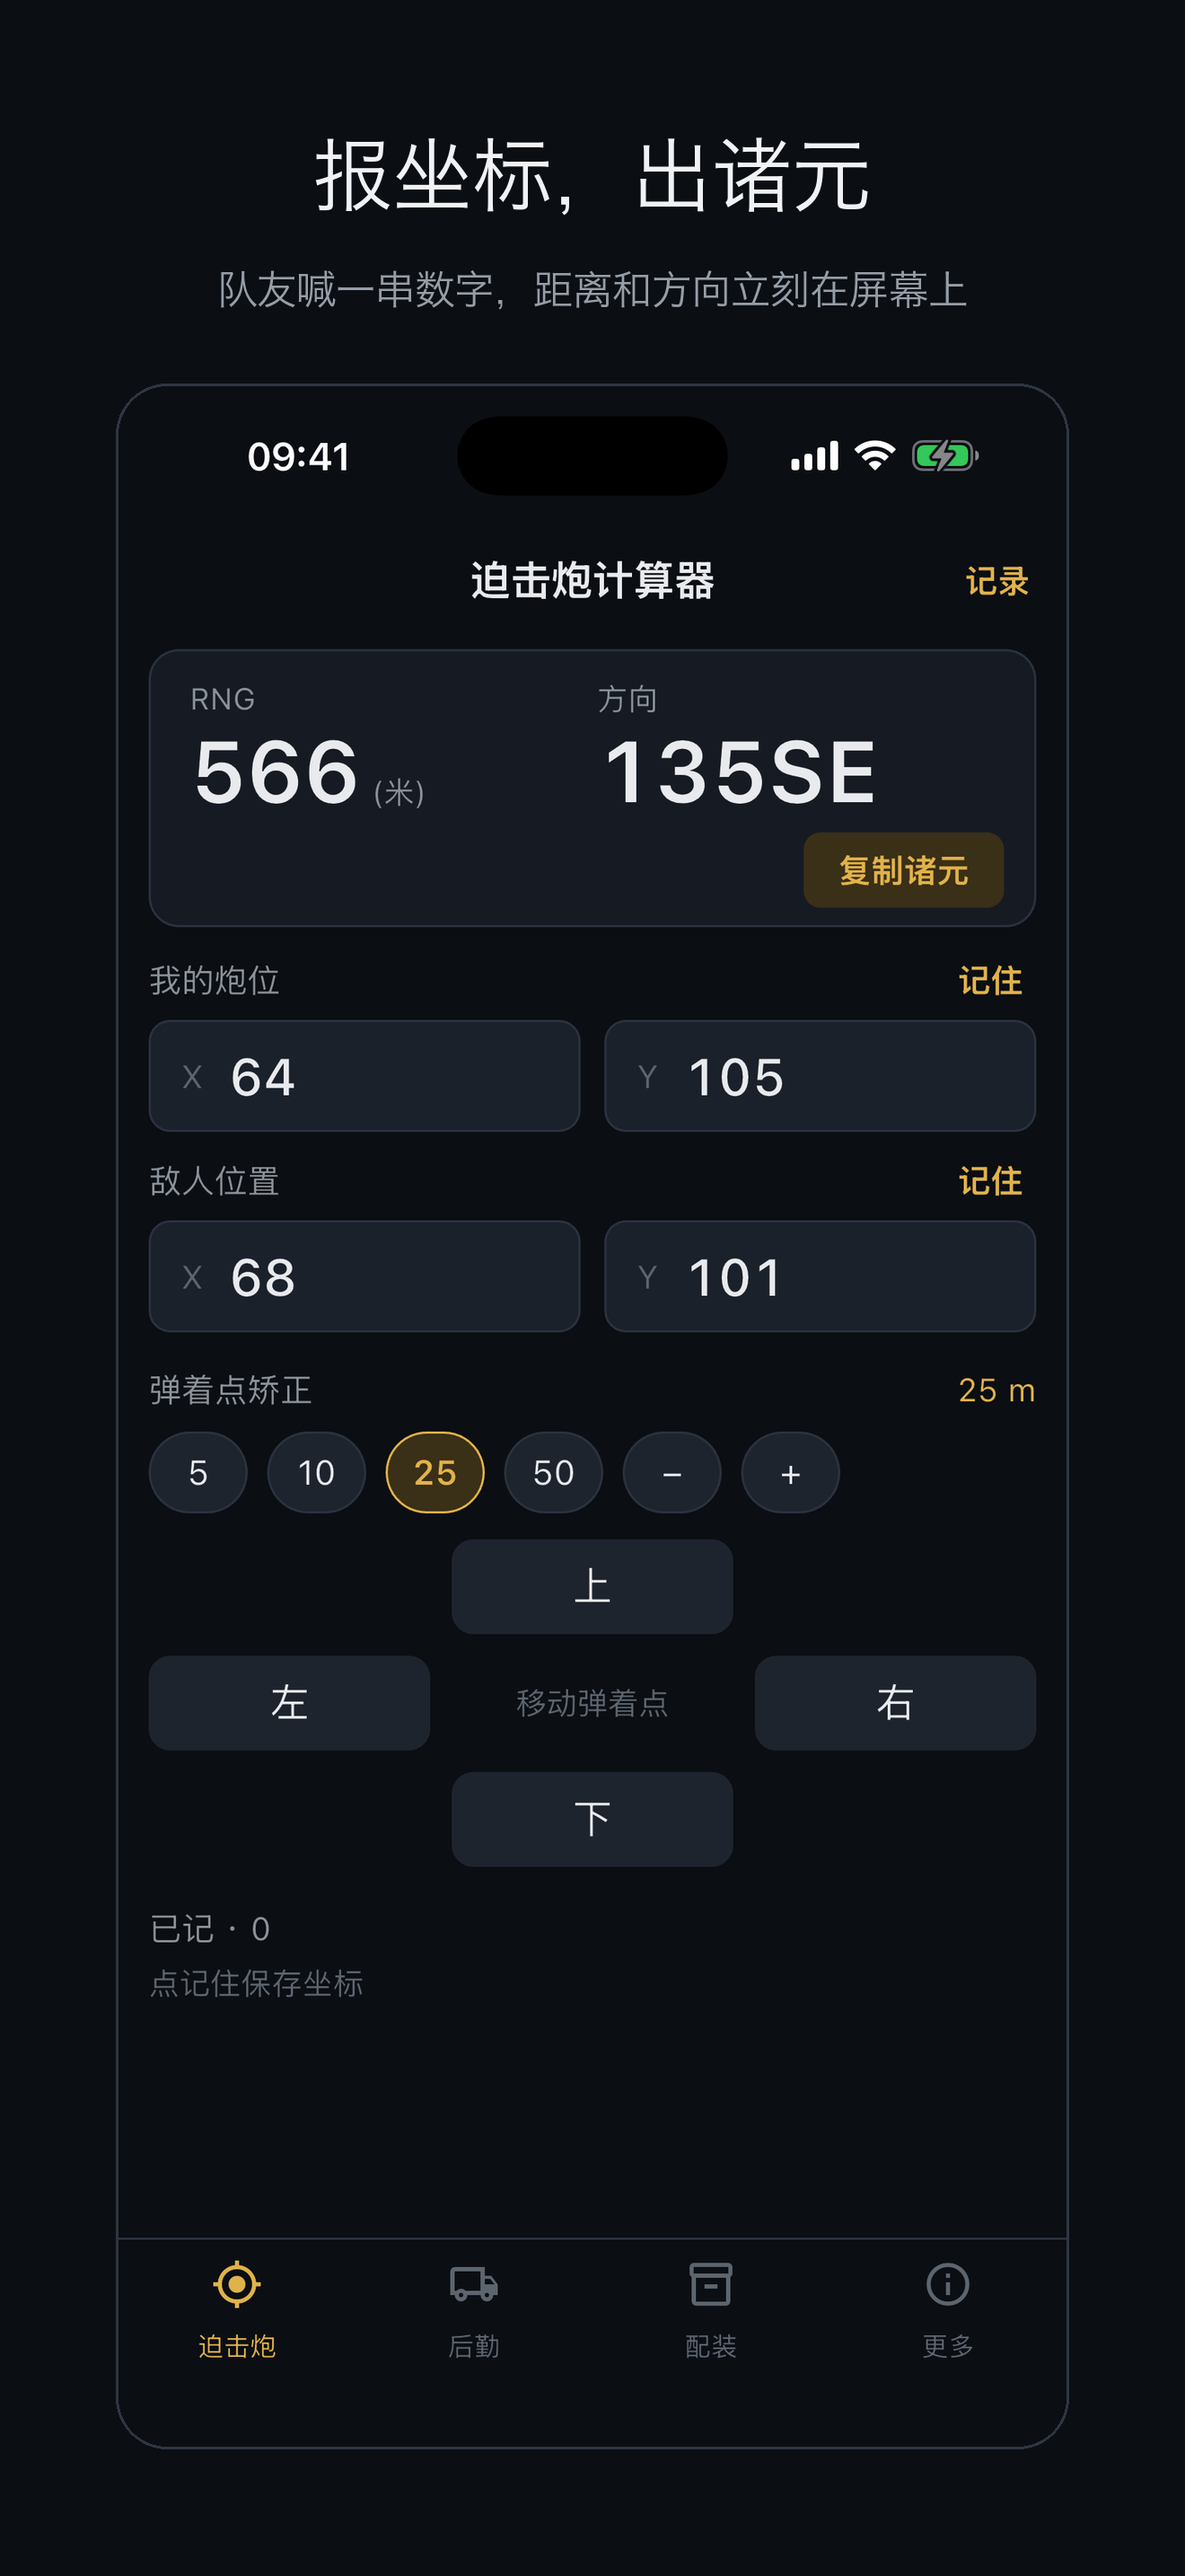
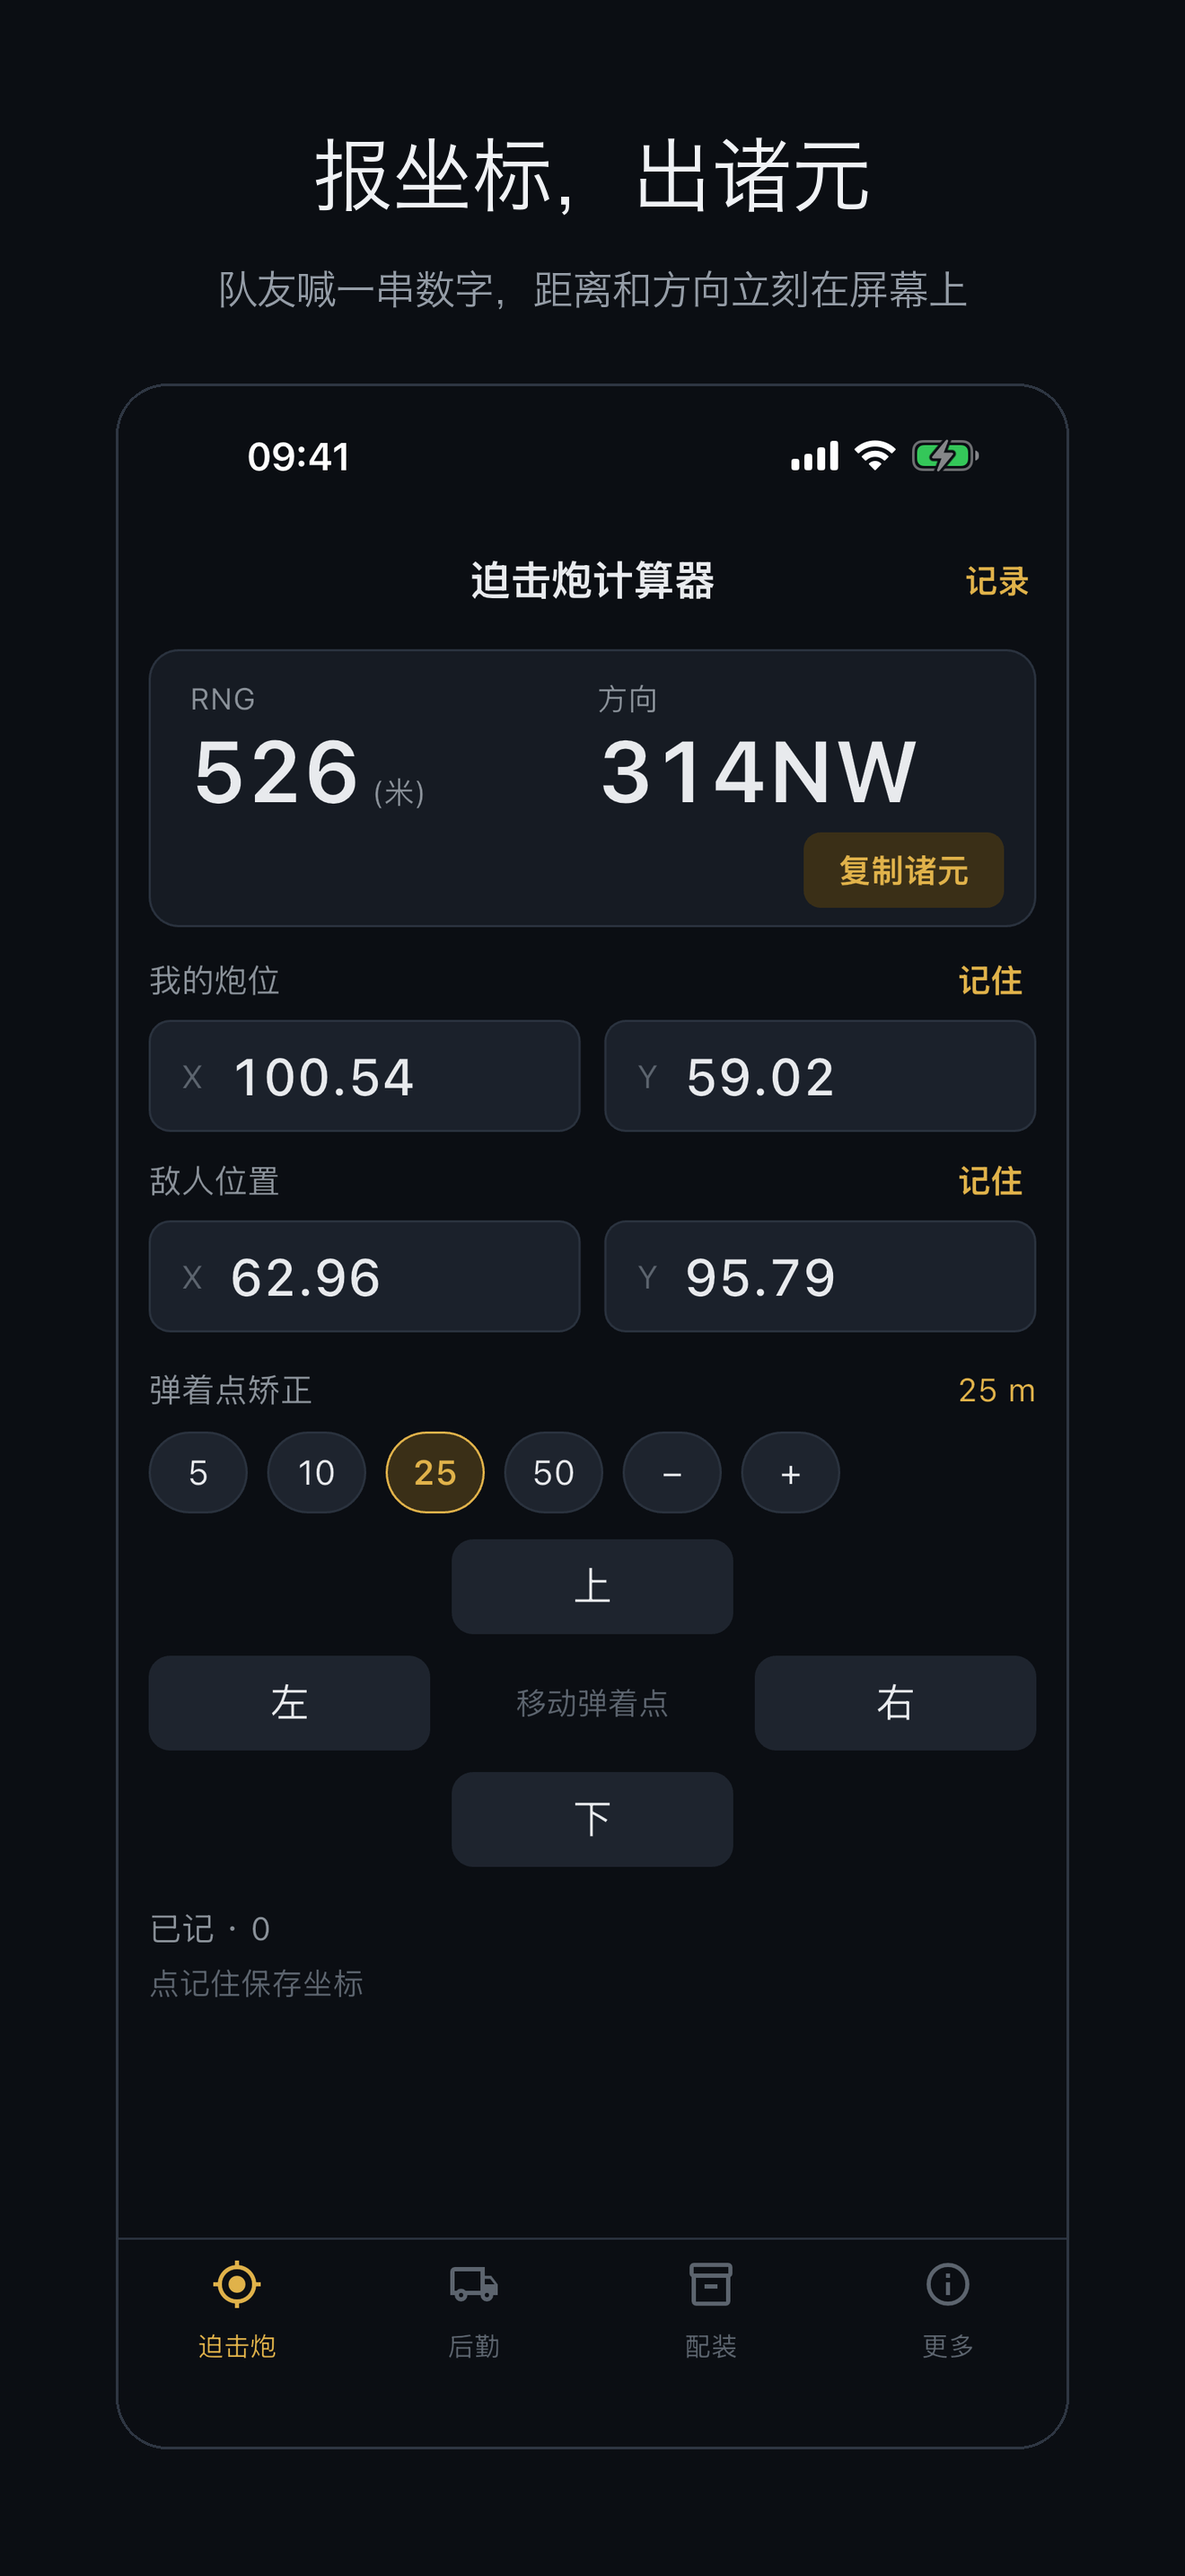
修正地图刻度：一格 10 米，不是 100 米
实机数据推翻了原来的刻度。炮位(100.54, 59.02) 目标(62.96, 95.79)
相距 52.58 格，游戏里实际约 525 米，而 App 报 5258 米 —— 整整差十倍。

原刻度来自一张参考截图的反推，且与多个社区计算器（expcarry、
AeroAL/wardogs-calc）写的口径一致，但那是错的。佐证：L81 有效射程
132–684 米，按 10 米刻度换算为 13.2–68.4 格，上面那一炮落在射程内；
按 100 米则只剩 1.32–6.84 格，整场交战挤在几格之内，不合理。

同时加入射程提示：诸元算得出来不代表打得到，超出 L81 射程直接标出来。
5258 那次若有此提示，当场就能发现。

测试基准换成这组实机数据，不再用截图反推的那组。刻度若被改回 100，
十个测试会红。商店主图一并重拍（566 → 526）。

diff --git a/test/ballistics_test.dart b/test/ballistics_test.dart
@@ -3,12 +3,16 @@ import 'package:wardogs_assistant/ballistics.dart';
 
 void main() {
   group('诸元计算', () {
-    test('复现截图里的那一炮：566 米 / 133SE', () {
-      final s = solve(gunX: 63.41, gunY: 104.52, targetX: 67.56, targetY: 100.67);
-      expect(s.rangeRounded, 566);
-      expect(s.bearingRounded, 133);
-      expect(s.compass, 'SE');
-      expect(s.bearingLabel, '133SE');
+    // 这是实机验证过的一炮，不是从截图反推的。
+    // 刻度从 100 米改到 10 米就是被这组数推翻的，别改它。
+    test('实机基准：炮位(100.54,59.02) 目标(62.96,95.79) → 526 米 / 314NW', () {
+      final s = solve(gunX: 100.54, gunY: 59.02, targetX: 62.96, targetY: 95.79);
+      expect(s.rangeRounded, 526);
+      expect(s.bearingRounded, 314);
+      expect(s.compass, 'NW');
+      expect(s.bearingLabel, '314NW');
+      // 这一炮在 L81 射程内 —— 按旧刻度会算成 5258 米，根本打不到
+      expect(s.inL81Range, isTrue);
     });
 
     test('正北 / 正东 / 正南 / 正西 四个方向', () {
@@ -18,9 +22,11 @@ void main() {
       expect(solve(gunX: 0, gunY: 0, targetX: -1, targetY: 0).bearingRounded, 270);
     });
 
-    test('一格等于 100 米', () {
-      expect(solve(gunX: 0, gunY: 0, targetX: 0, targetY: 1).rangeRounded, 100);
-      expect(solve(gunX: 0, gunY: 0, targetX: 3, targetY: 4).rangeRounded, 500);
+    test('一格等于 10 米', () {
+      expect(kGridMeters, 10.0);
+      expect(solve(gunX: 0, gunY: 0, targetX: 0, targetY: 1).rangeRounded, 10);
+      expect(solve(gunX: 0, gunY: 0, targetX: 3, targetY: 4).rangeRounded, 50);
+      expect(solve(gunX: 0, gunY: 0, targetX: 0, targetY: 50).rangeRounded, 500);
     });
 
     test('罗盘扇区边界不跳错', () {
@@ -42,24 +48,46 @@ void main() {
 
   group('弹着点矫正', () {
     test('上加北、下减北、左减东、右加东', () {
+      // 一格 10 米，所以 25 米 = 2.5 格
       var o = applyNudge(offsetX: 0, offsetY: 0, direction: Nudge.up, stepMeters: 25);
-      expect(o.dy, closeTo(0.25, 1e-9));
+      expect(o.dy, closeTo(2.5, 1e-9));
       o = applyNudge(offsetX: 0, offsetY: 0, direction: Nudge.down, stepMeters: 25);
-      expect(o.dy, closeTo(-0.25, 1e-9));
+      expect(o.dy, closeTo(-2.5, 1e-9));
       o = applyNudge(offsetX: 0, offsetY: 0, direction: Nudge.left, stepMeters: 50);
-      expect(o.dx, closeTo(-0.5, 1e-9));
+      expect(o.dx, closeTo(-5.0, 1e-9));
       o = applyNudge(offsetX: 0, offsetY: 0, direction: Nudge.right, stepMeters: 50);
-      expect(o.dx, closeTo(0.5, 1e-9));
+      expect(o.dx, closeTo(5.0, 1e-9));
     });
 
     test('矫正 100 米向北，距离和方位跟着变', () {
-      const gx = 63.41, gy = 104.52, tx = 67.56, ty = 100.67;
+      const gx = 100.54, gy = 59.02, tx = 62.96, ty = 95.79;
       final before = solve(gunX: gx, gunY: gy, targetX: tx, targetY: ty);
       final o = applyNudge(offsetX: 0, offsetY: 0, direction: Nudge.up, stepMeters: 100);
       final after = solve(gunX: gx, gunY: gy, targetX: tx + o.dx, targetY: ty + o.dy);
       expect(after.rangeRounded, isNot(before.rangeRounded));
-      // 往北挪 = 朝炮位方向靠，距离应该变近
-      expect(after.rangeMeters, lessThan(before.rangeMeters));
+      // 目标在炮位北边，再往北挪就是越挪越远
+      expect(after.rangeMeters, greaterThan(before.rangeMeters));
+    });
+  });
+
+  group('射程判断', () {
+    FireSolution at(double grids) =>
+        solve(gunX: 0, gunY: 0, targetX: 0, targetY: grids);
+
+    test('射程内不提示', () {
+      expect(at(13.2).rangeWarning, isNull);
+      expect(at(40.0).rangeWarning, isNull);
+      expect(at(68.4).rangeWarning, isNull);
+    });
+
+    test('太近要提示', () {
+      expect(at(10.0).rangeWarning, contains('太近'));
+      expect(at(5.0).inL81Range, isFalse);
+    });
+
+    test('太远要提示', () {
+      expect(at(100.0).rangeWarning, contains('超出射程'));
+      expect(at(100.0).rangeRounded, 1000);
     });
   });
 }

diff --git a/test/mortar_screen_test.dart b/test/mortar_screen_test.dart
@@ -42,18 +42,18 @@ void main() {
     // 一开始四个格子都空，诸元位置显示横杠而不是乱数
     expect(find.text('—'), findsNWidgets(2));
 
-    await typeNumber(t, '63.41');
+    await typeNumber(t, '100.54');
     await press(t, '下一项');
-    await typeNumber(t, '104.52');
+    await typeNumber(t, '59.02');
     await press(t, '下一项');
-    await typeNumber(t, '67.56');
+    await typeNumber(t, '62.96');
     await press(t, '下一项');
-    await typeNumber(t, '100.67');
+    await typeNumber(t, '95.79');
     await t.pump();
 
-    // 这组数就是实机截图里的那一发
-    expect(find.text('566'), findsOneWidget);
-    expect(find.text('133SE'), findsOneWidget);
+    // 实机验证过的一炮。按旧刻度（100 米）会算成 5258 米
+    expect(find.text('526'), findsOneWidget);
+    expect(find.text('314NW'), findsOneWidget);
   });
 
   testWidgets('少填一个格子就不出诸元', (t) async {
@@ -98,7 +98,7 @@ void main() {
     await press(t, '下一项');
     await typeNumber(t, '0');
     await press(t, '下一项');
-    await typeNumber(t, '5');
+    await typeNumber(t, '50');
     await t.pump();
     expect(find.text('500'), findsOneWidget);
 
@@ -127,7 +127,7 @@ void main() {
     await press(t, '下一项');
     await typeNumber(t, '0');
     await press(t, '下一项');
-    await typeNumber(t, '5');
+    await typeNumber(t, '50');
     await t.pump();
     expect(find.text('500'), findsOneWidget);
 
@@ -136,9 +136,9 @@ void main() {
     expect(find.text('475'), findsOneWidget);
     expect(find.textContaining('已矫正'), findsOneWidget);
 
-    // 换目标：把 Y 从 5 改成 6。焦点还在 tgtY 上，直接退格重输。
-    await press(t, '⌫');
-    await typeNumber(t, '6');
+    // 换目标：清空重输 60。焦点还在 tgtY 上。
+    await press(t, 'C');
+    await typeNumber(t, '60');
     await t.pump();
 
     // 新目标应该是干干净净的 600，而不是带着上一发 25 米修正的 575
@@ -178,7 +178,7 @@ void main() {
     expect(find.text('12345678'), findsOneWidget);
   });
 
-  testWidgets('非 2 的幂步长来回矫正后，「已矫正」要能消掉', (t) async {
+  testWidgets('矫正后点清零，提示要消掉', (t) async {
     t.view.physicalSize = const Size(1200, 4200);
     t.view.devicePixelRatio = 3.0;
     addTearDown(t.view.resetPhysicalSize);
@@ -191,20 +191,16 @@ void main() {
     await press(t, '下一项');
     await typeNumber(t, '0');
     await press(t, '下一项');
-    await typeNumber(t, '5');
+    await typeNumber(t, '50');
     await t.pump();
 
-    // 步长换成 10 米（0.1 格，二进制除不尽）
     await scrollAndPress(t, '10');
-    // 上三下三，数学上回到原点
     for (var i = 0; i < 3; i++) {
       await scrollAndPress(t, '上');
     }
-    for (var i = 0; i < 3; i++) {
-      await scrollAndPress(t, '下');
-    }
+    expect(find.textContaining('已矫正'), findsOneWidget);
 
-    // 浮点残渣 2.8e-17 不能让这行自相矛盾的提示留在屏幕上
+    await scrollAndPress(t, '清零');
     expect(find.textContaining('已矫正'), findsNothing);
     expect(find.text('500'), findsOneWidget);
   });

diff --git a/lib/ballistics.dart b/lib/ballistics.dart
@@ -1,8 +1,25 @@
 import 'dart:math' as math;
 
-/// 一格地图 = 100 米（由截图反推验证：
-/// 炮位(63.41,104.52) 敌人(67.56,100.67) → 5.6608 格 → 566 米）
-const double kGridMeters = 100.0;
+/// 一格地图 = 10 米。
+///
+/// 这个数改过一次，改动依据要留着，别再改回去：
+/// 最初按 100 米，来源是一张参考截图的反推，也和多个社区计算器
+/// （expcarry、AeroAL/wardogs-calc）写的口径一致。但那是错的。
+///
+/// 实机数据推翻了它：炮位(100.54, 59.02) 目标(62.96, 95.79) 相距 52.58 格，
+/// 游戏里实际约 525 米 —— 按 100 米算会得出 5258 米。
+/// 佐证：L81 有效射程 132–684 米，换算成 13.2–68.4 格；
+/// 上面那一炮 52.58 格落在射程内，是一次正常射击。
+/// 若按 100 米，有效射程只剩 1.32–6.84 格，而坐标显示精度是 0.01，
+/// 等于整场交战挤在几格之内，不合理。
+///
+/// 要再改这个值，先拿实机数据，别信文档。
+const double kGridMeters = 10.0;
+
+/// L81 迫击炮的有效射程（米）。社区实测口径，官方没公布过。
+/// 超出这个范围的诸元算得出来也打不到，必须让人一眼看见。
+const int kL81MinRange = 132;
+const int kL81MaxRange = 684;
 
 /// 八方位罗盘，用于把角度标成 SE / NW 这种后缀
 const List<String> _sectors = ['N', 'NE', 'E', 'SE', 'S', 'SW', 'W', 'NW'];
@@ -37,6 +54,17 @@ class FireSolution {
 
   /// 形如 "133SE"
   String get bearingLabel => '$bearingRounded$compass';
+
+  /// 这一发 L81 打不打得到
+  bool get inL81Range =>
+      rangeRounded >= kL81MinRange && rangeRounded <= kL81MaxRange;
+
+  /// 超出射程时给一句人话，射程内返回 null
+  String? get rangeWarning {
+    if (inL81Range) return null;
+    if (rangeRounded < kL81MinRange) return '太近，L81 最少 $kL81MinRange 米';
+    return '超出射程，L81 最远 $kL81MaxRange 米';
+  }
 
   /// 可以直接粘给队友的一行诸元
   String get shareText => '距离 $rangeRounded 米 · 方向 $bearingLabel';

diff --git a/lib/screens/mortar_screen.dart b/lib/screens/mortar_screen.dart
@@ -433,6 +433,21 @@ class _SolutionCard extends StatelessWidget {
               ),
             ],
           ),
+          if (s?.rangeWarning != null) ...[
+            const SizedBox(height: 10),
+            Row(
+              children: [
+                const Icon(Icons.error_outline, size: 17, color: C.gold),
+                const SizedBox(width: 7),
+                Expanded(
+                  child: Text(
+                    s!.rangeWarning!,
+                    style: const TextStyle(color: C.gold, fontSize: 14),
+                  ),
+                ),
+              ],
+            ),
+          ],
           const SizedBox(height: 6),
           Align(
             alignment: Alignment.centerRight,

diff --git a/lib/data/updater.dart b/lib/data/updater.dart
@@ -3,7 +3,7 @@ import 'dart:convert';
 import 'dart:io';
 
 /// 当前版本，发版时改这里（要和 pubspec.yaml 的 version 一致）
-const String kAppVersion = '1.0.3';
+const String kAppVersion = '1.0.4';
 
 /// 发版仓库。更新走 GitHub Releases —— 这是整个 App 唯一会联网的地方。
 /// 换仓库只改这两行。
